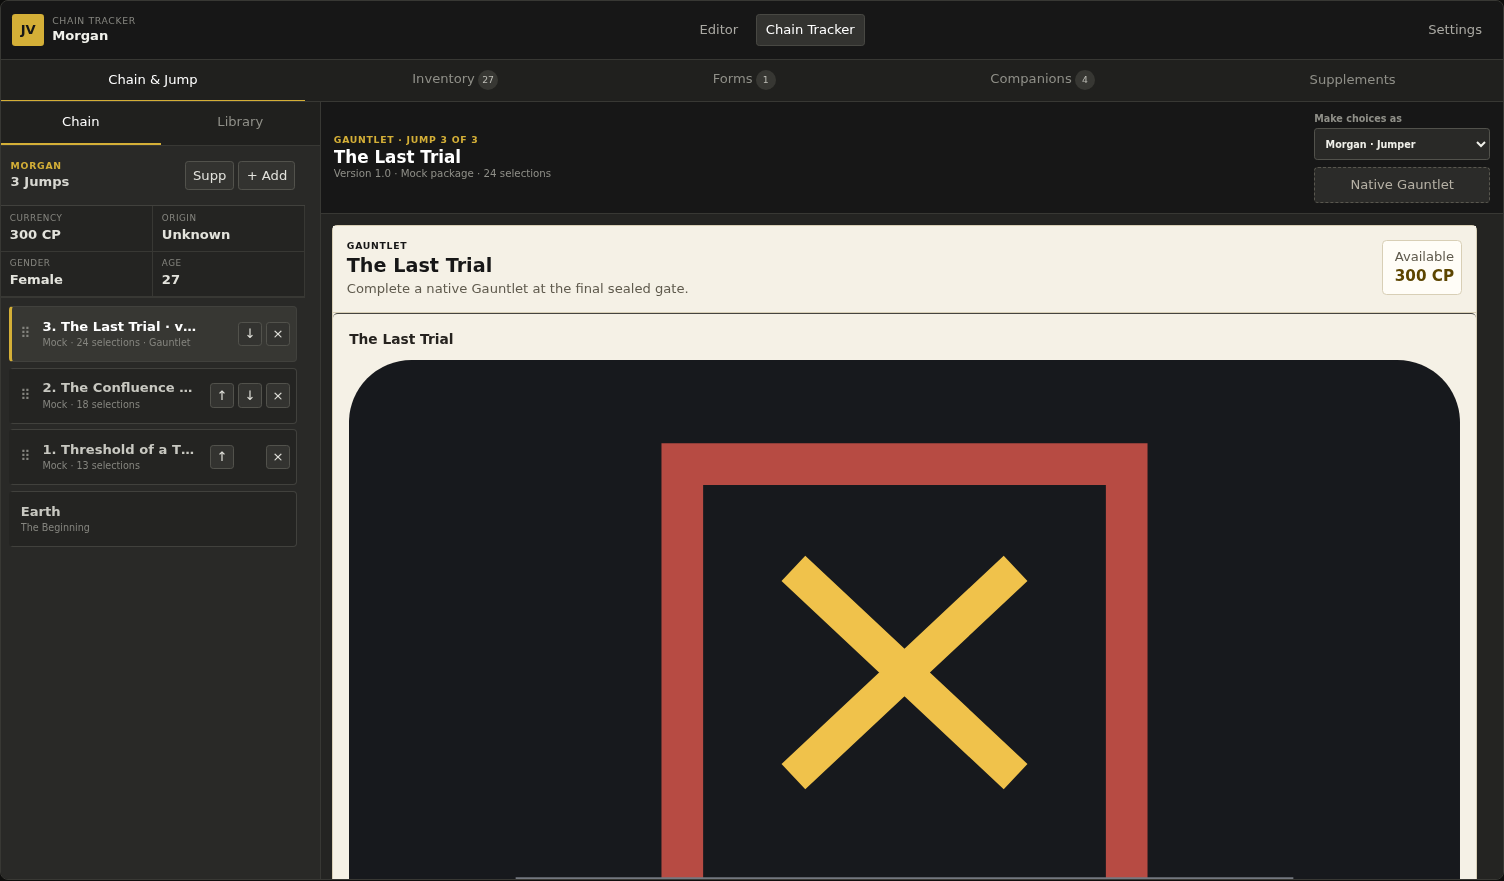
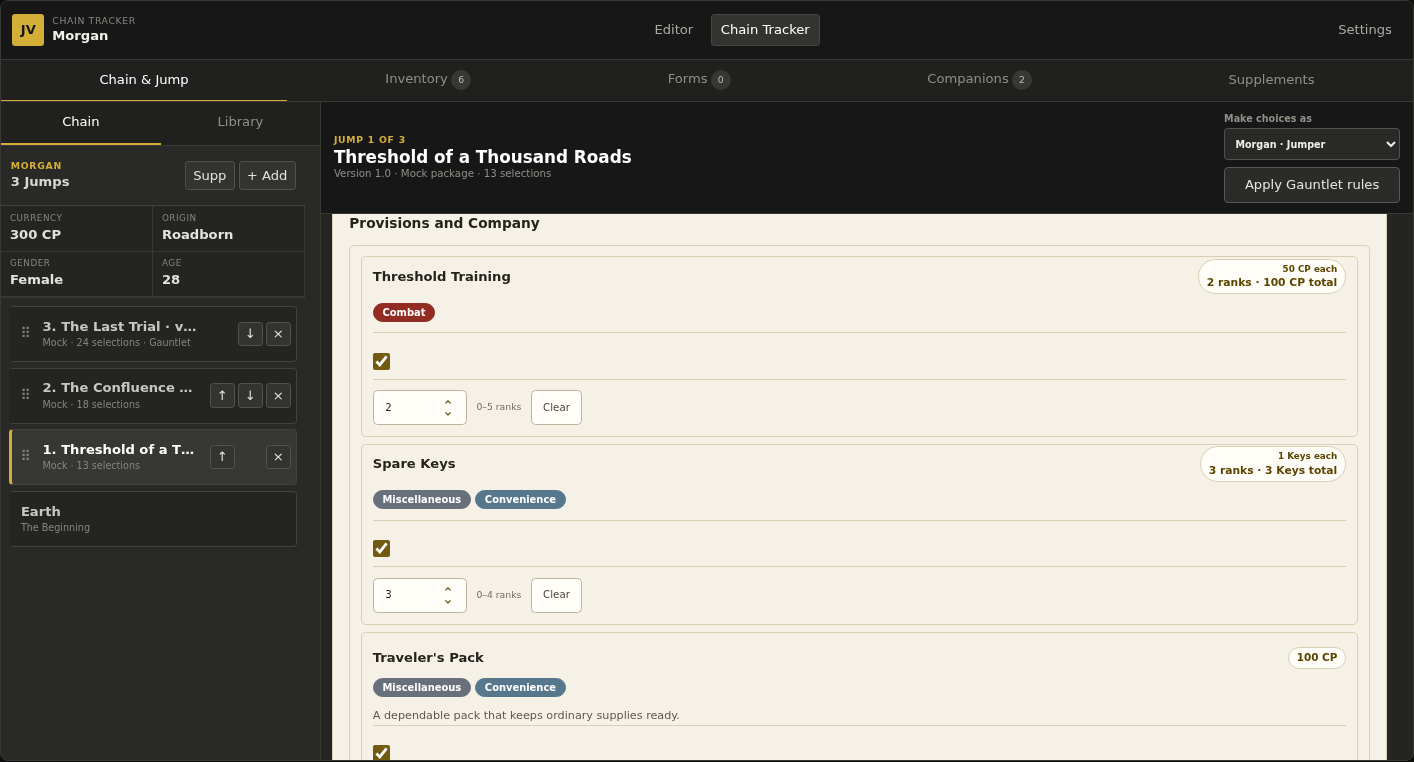
docs: expand README feature showcase

diff --git a/README.md b/README.md
@@ -16,31 +16,42 @@ That's where this idea came from. Jumpchains without the work. My only hope is t
 
 <!-- PROJECT PREAMBLE: END -->
 
-Jumpchain Visualizer is an offline-first editor and chain tracker for creating, inspecting, playing, and managing Jumpchain packages. The packaged Tauri desktop application is the primary target; the same React application also runs in a browser for development and testing.
+Jumpchain Visualizer is an offline-first editor and chain tracker for authoring Jump packages and playing complete chains. The packaged Tauri desktop application is the primary target; the same React application also runs in a browser for development and testing.
 
 ## Feature showcase
 
 ### Build complete Jump packages
 
-Author with structured forms or edit Format 1 source directly. Both views share live validation, contextual diagnostics, project assets, undo/redo, and a rendered preview, then export the result as a `.jmp` package.
+Author with structured forms or edit Format 1 source directly. Both views share live validation, contextual diagnostics, project assets, undo/redo, and the same rendered preview used during play. Build responsive layouts, add raster or SVG artwork, inspect appearance roles, and export the finished work as a `.jmp` package.
 
 ![The Jump editor showing structured controls for a populated section beside its live rendered preview](documentation/assets/readme/jump-editor.png)
 
 ### Play and track a whole chain
 
-Import Jump packages, arrange a chain, make choices for the Jumper or companions, and follow each Jump's resources and selections without losing the wider journey.
+Import Jump packages into a versioned library, arrange them into a chain, and make persistent choices or rolls for the Jumper and imported companions. Costs, grants, identities, forms, and companion availability recalculate as choices change, while every Jump remains editable and every historical inspection point remains available.
 
-![The Chain Tracker showing Morgan's three-Jump chain and the active Gauntlet](documentation/assets/readme/chain-tracker.png)
+![The Chain Tracker showing Morgan's three-Jump chain with ranked perks and items selected in the first Jump](documentation/assets/readme/chain-tracker.png)
 
 ### Search everything acquired along the way
 
-Inspect inventory at any point in the chain, search by name or source Jump, separate perks from items, and filter with hierarchical Tags whose presentation belongs to the user's active Tag profile.
+Inspect inventory at any point in the chain, search by name or source Jump, separate perks from items, and filter with hierarchical Tags whose presentation belongs to the user's active Tag profile. Repeated acquisitions can aggregate without losing their individual sources, ranked and quantity-bearing grants retain their measurements, and the Stats view turns Tag totals into interactive radar and category views.
 
 ![The accrued inventory view showing historical controls, search, Tag filters, and ranked records](documentation/assets/readme/inventory.png)
 
 ### Keep supplements in the same workspace
 
-Eight built-in supplement modules cover Body Mod alternatives, persistent spaces, Universal Drawbacks, Quest Mode, Story, and Limited Inheritance while sharing state with the active chain. Limited Inheritance can restrict future Inventory, Forms, and Companion profiles to configurable per-Jump pools without hiding acquisitions in their source Jump.
+Eight built-in modules share state with the active chain and expose contextual tools inside each Jump:
+
+- Classic Body Mod
+- Essential Body Modification
+- Cosmic Warehouse
+- Personal Reality
+- Universal Drawbacks
+- Quest Mode
+- Story
+- Limited Inheritance
+
+The two Body Mods are alternative foundations, while Cosmic Warehouse and Personal Reality are alternative persistent spaces. Limited Inheritance can restrict future Inventory, Forms, and Companion profiles to configurable per-Jump pools without hiding acquisitions in their source Jump.
 
 ![The Classic Body Mod supplement showing an Athlete build and remaining point budget](documentation/assets/readme/supplements.png)
 
@@ -48,7 +59,10 @@ Eight built-in supplement modules cover Body Mod alternatives, persistent spaces
 
 - Local-first operation with no account, hosted backend, paid service, or telemetry dependency.
 - Secure package inspection before import, including archive, image, source, schema, reference, and size validation.
-- Accrued forms and companion rosters alongside perks and items.
+- Exact installed package versions remain pinned to their chain entries; optional parallel versions and duplicate Jumps keep independent chronology, choices, rolls, and grants.
+- Accrued forms and companion rosters sit alongside perks and items. Companion profiles retain their acquired records and complete Jump import history.
+- Chain reordering and removal understand downstream companion dependencies and offer review, autosave, and Undo without finalizing or locking earlier Jumps.
+- Choice costs, discounts, awards, multiple currencies, ranked selections, quantities, rolls, Gauntlet rules, and conditional grants are evaluated from the authored package.
 - Light and dark themes, keyboard-accessible interactions, and interfaces in English, Italian, Brazilian Portuguese, European Spanish, and Latin American Spanish.
 - One Format 1 renderer shared by Editor previews and the Chain Tracker.
 
